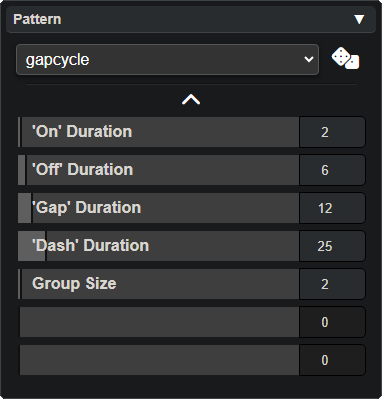
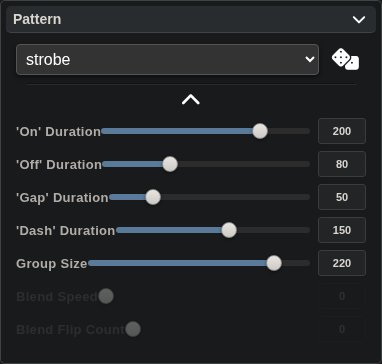
docs: update colorset and pattern panel screenshots, rewrite docs, add colorsets reference, update animation panel

diff --git a/docs/lightshow-lol/control-panels/colorset.md b/docs/lightshow-lol/control-panels/colorset.md
@@ -45,18 +45,33 @@ parent: Control Panels
 
 <img style="float:right;max-width:40%;margin:10px;" src="{{ '/assets/images/lightshow-lol-colorset.png' | relative_url }}">
 
-The **Colorset Panel** represents the list of up to 8 colors for the selected leds of the current mode.
+The **Colorset Panel** shows the list of up to 8 colors for the selected LEDs of the current mode.
 
 ### Key Features
 
-- **Drag and Drop** Drag to rearrange colors in your colorset.
-- **Dynamic Color Picker:** Click to modify the color with the Color Picker
+- **Color Swatches:** Each color in the colorset is shown as a swatch. Click a swatch to open the **Color Picker** and modify it. The first swatch is highlighted with a green border to indicate the **main selected LED**.
+- **Add Color:** The **+** button adds a new color to the colorset (up to 8), opening the Color Picker immediately.
+- **Empty Slots:** Dashed slots after the **+** button indicate remaining unused positions (up to 8 total).
+- **Delete Color:** Right-click a color swatch and select **Delete Color** to remove it from the set.
+- **Drag and Drop:** Drag a color swatch to reorder colors within the colorset.
+- **Copy / Paste:** Right-click a swatch to copy a single color, or right-click the canvas for broader copy/paste options.
+
+### Colorset Generator
+
+The generator (toggled via the chevron button below the swatches) lets you quickly create a new colorset:
+
+- **Color Count:** Use the slider or number input to set how many colors to generate (1–8).
+- **Style:** Choose from preset styles — **Rainbow**, **Random**, **Pastel**, **Dark**, **Grayscale**, **Vibrant**, **Warm**, or **Cool**.
+- **Brightness:** Adjust overall brightness of the generated colors (10–100%).
+- **Generate:** Click the orange **Generate** button to replace the current colorset.
 
 ### Tips
 
-- There is a maximum of 8 colors in a colorset. 
-- Black is considered 'off' which can be used to extend gaps in the pattern. Changing a color to black is not the same as deleting a color.
-- Hold the left mouse button on a color to delete it and remove it from the colorset.
+- There is a maximum of 8 colors in a colorset.
+- Black counts as 'off' — it can extend gaps in a pattern. Changing a color to black is not the same as deleting it.
+- Use the generator to quickly build a colorset, then fine-tune individual colors with the Color Picker.
+- Colorsets work together with [Patterns]({{ site.baseurl }}{% link vortex-engine/patterns/index.md %}) — try different color and pattern combinations for unique effects.
+- For a deeper overview of how colorsets fit into the Vortex Engine, see the [Colorsets]({{ site.baseurl }}{% link vortex-engine/colorsets/index.md %}) page.
 
 ## Other Panels
 

diff --git a/docs/lightshow-lol/control-panels/pattern.md b/docs/lightshow-lol/control-panels/pattern.md
@@ -40,19 +40,29 @@ parent: Control Panels
   .panel-img {
     max-width: 100%;
   }
+
 </style>
 # Pattern Controls
 
 <img style="float:right;max-width:40%;margin:10px;" src="{{ '/assets/images/lightshow-lol-pattern.png' | relative_url }}">
 
-The **Pattern Panel** is where you choose and modify patterns for your LEDs. Patterns determine how LEDs blink or animate over time.
+The **Pattern Panel** controls how each LED blinks or animates over time. Every mode has a pattern assigned to each of its selected LEDs.
 
-### Key Features
+### Pattern Selection
 
-- **Pattern Library:** Choose from a library of predefined patterns (e.g., strobe, dops, blend).
-- **Custom Parameters:** Adjust parameters like blink size, gap size, blend speed, etc
+- **Dropdown:** Choose from **Strobe**, **Blend**, **Solid**, and **Multi-LED** patterns. Each category produces a different type of animation.
+- **Randomize:** Click the dice button to instantly apply a random pattern to the selected LED.
 
-The various parameters control the appearance of the blinking of the LED, like the timing and length of blinks and other sometimes abstract qualities. Try making changes to come up with unique effects!
+### Pattern Parameters
+
+Click the chevron to expand the parameter sliders. Each pattern exposes up to 7 adjustable controls (e.g. blink size, gap size, blend speed). Drag a slider or type a value to fine-tune the effect. Disabled sliders mean that pattern doesn't use that parameter.
+
+Every pattern in the dropdown can be recreated by adjusting these sliders — they are the raw controls that define each pattern's behavior.
+
+> For a complete reference of all available patterns and what each parameter does, see the [Patterns]({{ site.baseurl }}{% link vortex-engine/patterns/index.md %}) page.
+>
+> Patterns determine an LED's blink animation, but the actual colors used come from the **Colorset** assigned to that LED. See the [Colorsets]({{ site.baseurl }}{% link vortex-engine/colorsets/index.md %}) page for details on how colors and patterns work together.
+{: .note }
 
 ## Other Panels
 

diff --git a/docs/lightshow-lol/control-panels/animation.md b/docs/lightshow-lol/control-panels/animation.md
@@ -75,20 +75,36 @@ parent: Control Panels
   <img src="{{ '/assets/images/lightshow-lol-animation.png' | relative_url }}" alt="Lightshow.lol Animation">
 </div>
 
-The **Animation Panel** specifically controls the appearance of this **preview** (the spinning circle of colors).
+The **Animation Panel** controls the appearance of the **preview** — the spinning trail of colors shown in the editor.
 
-The settings on the **Animation Panel** do not affect how the mode appears on a device, these controls  only affect how the **preview** appears on your screen.
+Settings on the **Animation Panel** do not affect the device output. They only change how the preview appears on your screen.
 
-The five animation shapes change the shape of the trail's path in the preview.
+### Animation Shapes
 
-The six slider options affect other qualities of the trails:
+Five buttons at the top let you choose the path the animation follows:
+
+| Button | Shape |
+|--------|-------|
+| Circle | Circular orbit |
+| Infinity | Figure-8 path |
+| Heart | Heart-shaped path |
+| Box | Rectangular path |
+| Orbit | LEDs orbit around a center point |
+
+### Slider Controls
+
+Six sliders tune different qualities of the preview trail:
 
 - **Speed**: How fast the animation progresses
 - **Trail**: How long the colors remain visible (the length of the trail)
 - **Size**: The size of each blink of color in the trail
 - **Blur**: Softness/diffusion of each blink of color
-- **Radius**: The size of the animation pattern on screen
+- **Radius**: The radius of the animation path on screen
 - **Spread**: With many LEDs, the distance between each LED in the preview
+
+### Device Presets
+
+When a device is connected, the animation panel automatically applies a preset tuned to that device (orbit, handle, gloves, etc.), including a **Spread** slider that is hidden when no device is selected.
 
 ## Other Panels
 
